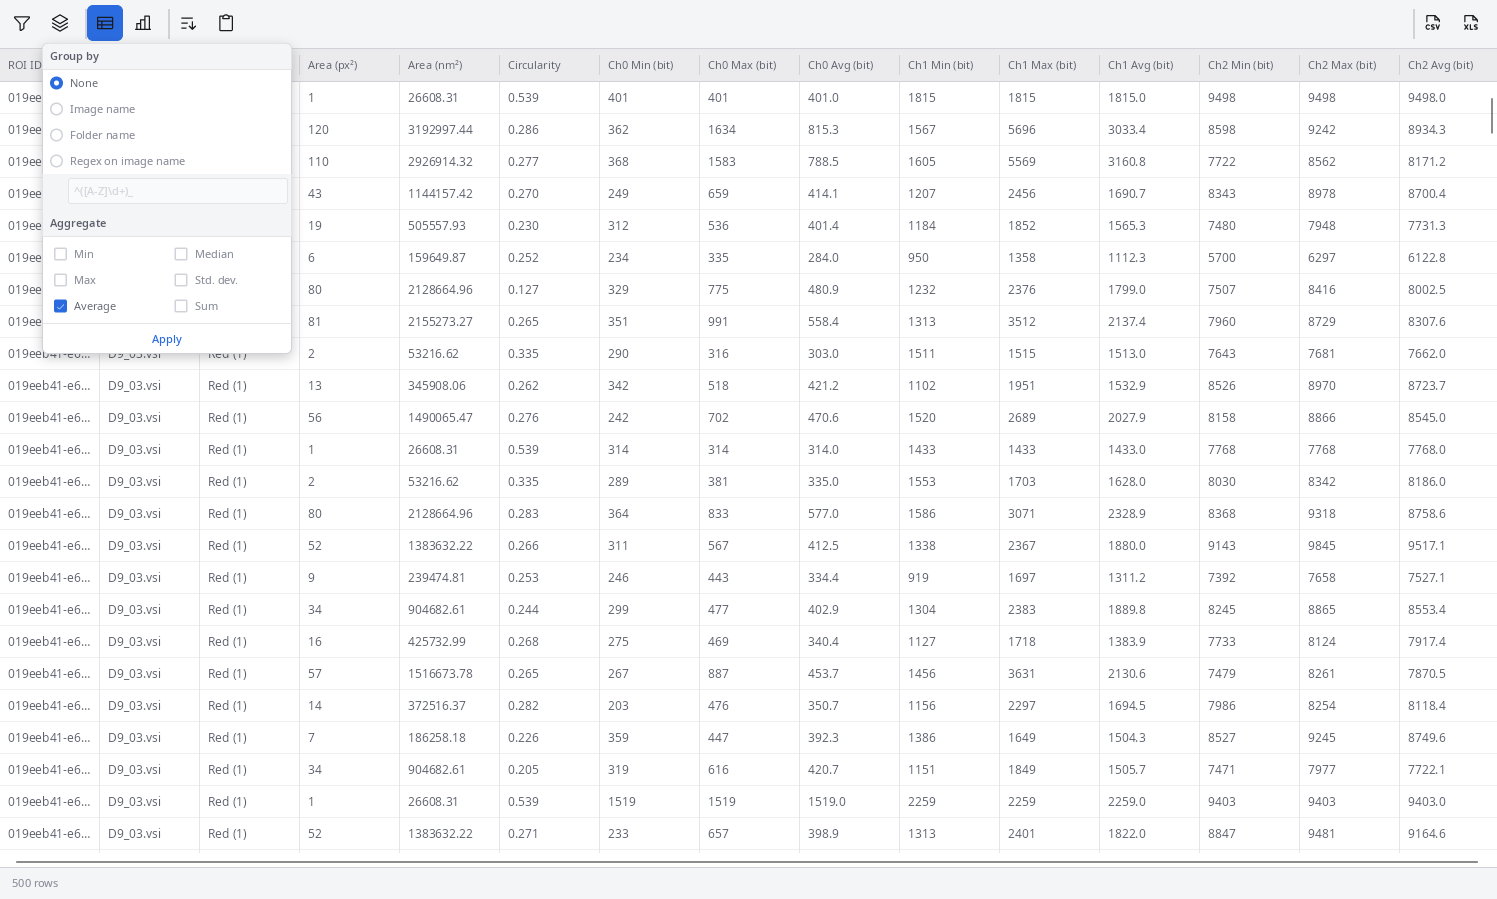
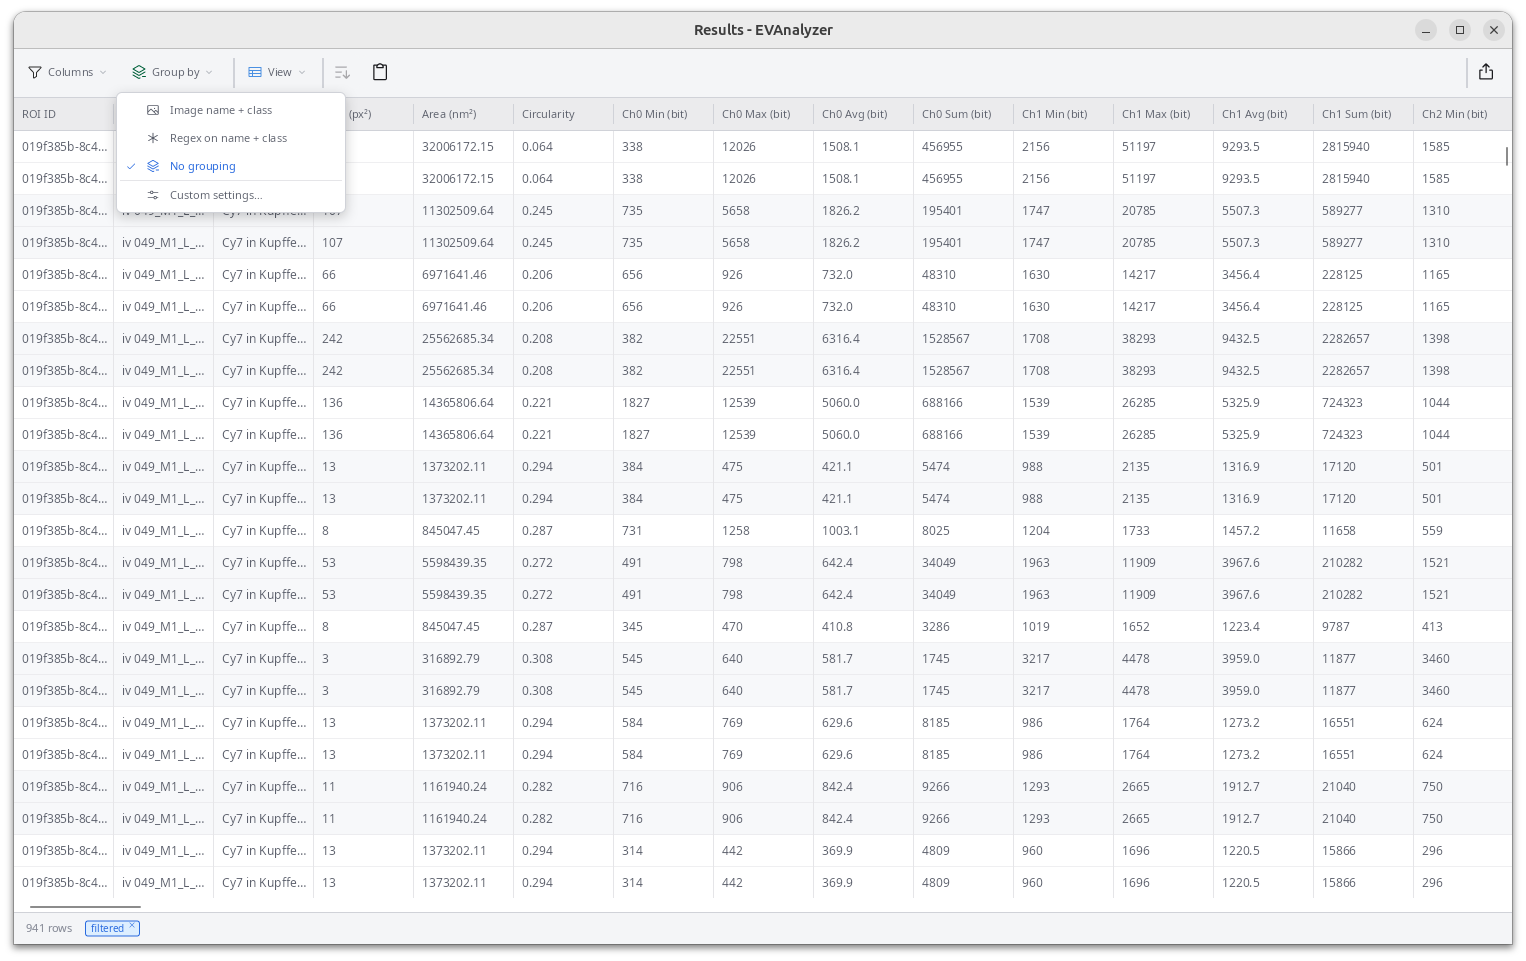
chore: Describe results

diff --git a/src/content/docs/guide/results.md b/src/content/docs/guide/results.md
@@ -13,124 +13,106 @@ Open an existing results file from the toolbar: click the **arrow** beside the *
 
 ![Results list](../../../assets/screenshots/screenshot-results-list.png)
 
-## Results Views
+## Results Table
 
-### Plate View
+By default, results open in the **Table** view: one row per detected region of interest (ROI), with columns for **ROI ID**, **Image**, **Class**, **Area (px²)**, **Area (nm²)**, **Circularity**, **Colocalized**, and one **Min / Max / Avg / Sum** column per measured channel (Ch0, Ch1, …).
 
-The plate view is the default opening view when image grouping is configured. It shows one cell per well, with the selected metric value averaged across all images in that well.
+Click a column header to sort by it; click again to reverse the direction. The **Image**, **Class**, and **Colocalized** headers each have a filter icon that opens a searchable checklist of values, so you can narrow the table to specific images or classes without leaving the results window.
 
-Switch between **table** and **heatmap** display using the heatmap button. In heatmap mode, the colour represents the metric value relative to the full range; the toolbar drop-down selects which column to visualise.
+Results load in pages as you scroll, so even large result sets with hundreds of thousands of ROIs stay responsive.
 
-### Image View
+![Results table](../../../assets/screenshots/screenshot-results-table-view.png)
 
-Double-click a well in the plate view (or click any row in the table view) to open the **Image view** for that well. Each image is shown in its well-order position as defined in the project settings.
+### Columns
 
-- Images flagged as **excluded** are crossed out and omitted from statistics.
-- Use the context menu on any image to toggle exclusion.
+Click **Columns** in the toolbar to show or hide individual columns, including per-channel intensity metrics, without changing what was measured.
 
-### Image Detail View
+![Column picker](../../../assets/screenshots/screenshot-results-table-view-group-by-image-column-filter.png)
 
-Double-click an image in the Image view to open the **detail view**, which shows:
+### Grouping and Aggregation
 
-- A **density map** - the image is divided into square tiles; the average metric value of all objects within each tile is visualised as a colour.
-- A **per-object table** - every detected object with all its measured metrics.
+Click **Group by** to collapse the per-ROI table into one row per **image name**, **folder name**, or a **regex** extracted from the image name. Choose one or more aggregation functions — **Min**, **Max**, **Average**, **Median**, **Std. dev.**, **Sum** — then click **Apply**.
 
-![Per-object results table](../../../assets/screenshots/screenshot-results.png)
+![Group by](../../../assets/screenshots/screenshot-results-group-by.png)
 
-Select a row in the object table to jump to that object in the image and highlight its position.
+Each numeric column is duplicated per selected aggregation (for example **Area (px²) [avg]** and **Area (px²) [sum]**), so you can compare, say, average object size against total covered area per image.
 
-:::note[Original images required for interactive mode]
-The detail view needs access to the original images to overlay objects. If the `results.evadb` file or the images are moved after the analysis, EVAnalyzer will prompt you to specify the new location.
-:::
+![Grouped results table](../../../assets/screenshots/screenshot-results-table-view-group-by-image.png)
 
-## Adding and Removing Columns
+With grouped results, the **Columns** picker nests per-channel metrics under an **Intensity** group so you can toggle a whole channel's aggregates at once instead of one column at a time.
 
-The results table shows only the columns configured in the **Class Editor** by default. To add more:
+![Column picker for grouped results](../../../assets/screenshots/screenshot-results-table-view-group-by-image-column-filter.png)
 
-1. Click the blue **Add column** button.
-2. Choose from the list of all available metrics.
+### Colocalization Details
 
-![Column selector](../../../assets/screenshots/screenshot-results-filter.png)
+If a pipeline includes a [Colocalization](/commands/object/colocalization/) step, switch to the **Coloc details** view to flatten each ROI's matched partners into their own columns — one set of measurement columns per partner class, with a dash where no partner was found. This is the same underlying data as the **Colocalized** column in the main table, broken out partner by partner.
 
-Columns can also be removed by right-clicking the column header. Table layout is saved with the `results.evadb` file and restored on the next open.
-
-See [Metrics](/fundamentals/metrics/) for a full description of all available measurements and statistics.
-
-## Grouping and Aggregating Rows
-
-Click the **stack icon** in the table toolbar to open the **Group by** / **Aggregate** panel, which summarises the per-object table into one row per group instead of one row per object.
-
-![Group by and Aggregate panel](../../../assets/screenshots/screenshot-results-group-by.png)
-
-**Group by** - choose how rows are bucketed:
-
-| Mode                    | Behaviour                                                                                                        |
-| ----------------------- | ---------------------------------------------------------------------------------------------------------------- |
-| **None**                | No grouping; one row per object (default)                                                                        |
-| **Image name**          | One row per source image                                                                                         |
-| **Folder name**         | One row per parent folder                                                                                        |
-| **Regex on image name** | One row per distinct match of a regular expression against the filename, e.g. `^([A-Z]\d+)_` to group by well ID |
-
-**Aggregate** - choose which statistics to compute per group for each numeric metric: **Min**, **Max**, **Average** (checked by default), **Median**, **Std. dev.**, **Sum**.
-
-Two additional toggles further split each group into multiple rows:
-
-| Toggle                            | Behaviour                                                                                                                                                                         |
-| --------------------------------- | --------------------------------------------------------------------------------------------------------------------------------------------------------------------------------- |
-| **Also group by class**           | Splits every group into one row per object class (e.g. `Image1 / Nucleus`, `Image1 / Cytoplasm`). An object carrying more than one class contributes to each of its classes' rows |
-| **Colocalized / not colocalized** | Splits every group into two rows: one for colocalising objects, one for non-colocalising objects (see [Colocalization](/commands/object/colocalization/))                         |
-
-Both toggles can be combined with any **Group by** mode and with each other. Click **Apply** to replace the per-object view with the grouped/aggregated summary. Switch **Group by** back to **None** to return to the full per-object table.
-
-If a colocalization partner class is configured, two extra columns are available per partner: the **number** of partner objects each object colocalises with, and their **object IDs** (comma-separated). The count column is numeric and can be aggregated like any other metric.
+![Colocalization details view](../../../assets/screenshots/screenshot-results-coloc-details-view.png)
 
 ## Charts
 
-Click the **chart icon** in the results toolbar to switch from the table to the **Charts** panel, plotted from the same (optionally grouped/filtered) rows currently loaded in the table.
+Switch **View** to **Chart** to visualize the currently filtered/grouped rows instead of reading them as a table. Three chart types are available; all three respect the active column filters and grouping, shown as removable chips (e.g. **filtered**) beneath the toolbar, with the plotted row count in the bottom-left corner.
 
-Three chart types are available, each with its own controls:
+### Histogram
 
-| Chart         | Controls                                                              | Shows                                                                                                 |
-| ------------- | --------------------------------------------------------------------- | ----------------------------------------------------------------------------------------------------- |
-| **Histogram** | Column, Buckets (2–200), Log scale                                    | Frequency distribution of one numeric metric                                                          |
-| **Scatter**   | X axis, Y axis, Color by (_None_, _Class_, _Colocalized_)             | Two numeric metrics plotted against each other, optionally coloured by class or colocalization status |
-| **Heatmap**   | Color by (_Count_ or the average of a numeric metric), Cell size (px) | Spatial distribution of objects across a single image, binned into square cells                       |
+Pick a numeric **Column**, the number of **Buckets**, and optionally enable **Log scale** for right-skewed distributions (like object area). **Color by** **Class** or **Colocalized** to overlay multiple distributions using shared bucket edges, making them directly comparable.
 
-Only visible, numeric columns appear in the pickers - hide a column in the table to remove it from the chart pickers too. For large scatter plots, EVAnalyzer deterministically samples down to a fixed number of points and reports "Showing N of M points" so re-rendering the same filter always produces the same subset.
+![Histogram view](../../../assets/screenshots/screenshot-results-histogram.png)
 
-Click **Plot** to render the chart. Hover over (or click) the rendered chart to see a tooltip with the exact bucket range/count, point coordinates and group, or cell value/count under the cursor.
+### Scatter
 
-Click the **save icon** next to the chart to export exactly what's on screen as a PNG file. Charts are not included in the CSV/XLSX export - use the save icon for chart images and the **Download** button below for tabular data.
+Choose numeric **X** and **Y** columns and optionally **Color by** class or colocalization status. Very large datasets are downsampled deterministically (not randomly) for rendering — a note like _"Showing 5000 of 273725 points (sampled)"_ appears above the plot when this happens, and the legend shows the object count behind each color.
 
-Charts, table export, and grouping are also available headlessly via the [CLI](/cli/cli/#export) (`evanalyzer cli export chart …`), which renders from the same `results.evadb` file using identical logic.
+![Scatter view](../../../assets/screenshots/screenshot-results-scatter.png)
+
+### Spatial Heatmap
+
+Bins ROI centroids into a grid across the image (or plate) and colors each cell by object **Count** or the **Average** of a chosen metric. Configure the **Cell size (px)** and a **Colors** scheme (Viridis, Magma, Plasma, or Grayscale). This is particularly useful for spotting spatial trends across a whole-slide image or across wells in a plate.
+
+![Spatial heatmap view](../../../assets/screenshots/screenshot-results-heatmap.png)
+
+Hover any bar, point, or cell for its exact value. Use the export icon in the chart toolbar to save the current plot as a PNG.
 
 ## Exporting Results
 
-Click the **Download** button (↓) in the toolbar to export the current view. Available formats:
+Click the export icon in the toolbar to open the **Export results** dialog. Unlike the table itself, exporting is built around a **queue of one or more export combinations** ("batches") that all get written out together.
 
-- **CSV** - comma-separated values.
-- **XLSX** - Microsoft Excel workbook.
+![Export dialog](../../../assets/screenshots/screenshot-results-export-dialog.png)
 
-You can export at the plate level, well level, or individual image level.
+### 1. Configure a combination
 
-### Export styles
+- **Export style** — **Table** or **Coloc details**.
+- **Group by** — **No Grouping**, **Image**, or **Regex** (table style only; the aggregation functions from the main table apply here too). Folder grouping isn't available in the batch queue — use **Export as Displayed** below for that.
+- **Images to export** — pick at least one image. Enable **Export each checked image as its own file** to write one file per checked image (the filename gets the image name) instead of a single combined file.
+- **Classes to include** — pick at least one class.
+- **Columns to export** — pick which columns to include, with **None** / **Avg+Sum** / **All** presets for intensity columns.
+- **Name** and **Format** (CSV or XLSX) for the resulting file(s). If **Name** is left blank, it's generated from the selected classes.
 
-| Style       | Description                                  |
-| ----------- | -------------------------------------------- |
-| **Table**   | One row per object/well; columns are metrics |
-| **Heatmap** | Values arranged in the plate grid layout     |
+### 2. Queue it
 
-## File Layout
+- Click **+ Add** to snapshot the current dialog settings above as a batch and add it to the **Combinations to export** list below. The checklists then stay open so you can change them and add another, different combination.
+- Click **Add from table** instead to queue a batch that mirrors exactly what the results table is *currently* showing — its live filters, grouping, and visible columns — reusing whichever Name/Format you've typed.
 
-After an analysis run, the job folder contains:
+Repeat as many times as needed; each queued combination appears as its own row (name, classes, images, style/grouping, format) and can be removed individually with its **X**.
 
-| Path              | Description                                                              |
-| ----------------- | ------------------------------------------------------------------------ |
-| `results.evadb`   | DuckDB database with all object metrics                                  |
-| `settings.improj` | Snapshot of the project settings used for this run                       |
-| `profiling.json`  | Execution timing per pipeline step                                       |
-| `images/`         | Control images saved by [Save Image](/commands/object/save-image/) steps |
-| `models/`         | Copy of any ML model files referenced in the project                     |
-| `data/`           | Copy of manual ROI annotations                                           |
+### 3. Export
 
-The `results.evadb` file can also be opened directly with any [DuckDB client](https://duckdb.org/docs/stable/clients/cli/overview.html) for custom SQL queries.
+Click **Export All** to choose a single destination **folder**, then every queued combination is written as its own file into it (or one file per image, for batches with "export each image as its own file" enabled) — all in one background run, with a progress bar and a status message, cancellable partway through. If you never clicked **+ Add**, the dialog's current settings are exported as a single one-off batch, so a lone export doesn't require the extra step.
+
+Filenames are de-duplicated automatically if two combinations would otherwise collide.
+
+Separately, **Export as Displayed** (bottom-left of the dialog) skips the queue entirely: it immediately exports a single file matching the results table's live state — including folder grouping, which only works here — and prompts for one output file rather than a folder.
+
+Both CSV and XLSX exports stream rows to disk rather than holding the whole result set in memory, so exporting very large projects doesn't require large amounts of RAM.
+
+:::tip
+For colocalization exports, partner lookups are resolved in batches of 5,000 source ROIs at a time — large colocalization datasets export reliably without needing to load everything at once.
+:::
+
+## Copying to the Clipboard
+
+Click the clipboard icon in the toolbar to copy the currently visible rows — respecting active filters and sorting — as tab-separated values, ready to paste directly into a spreadsheet.
+
+## Filtering by Frame
+
+For time-lapse or Z-stack acquisitions, use the **T** and **Z** frame steppers in the toolbar to restrict the table and charts to a single time point or depth slice.
